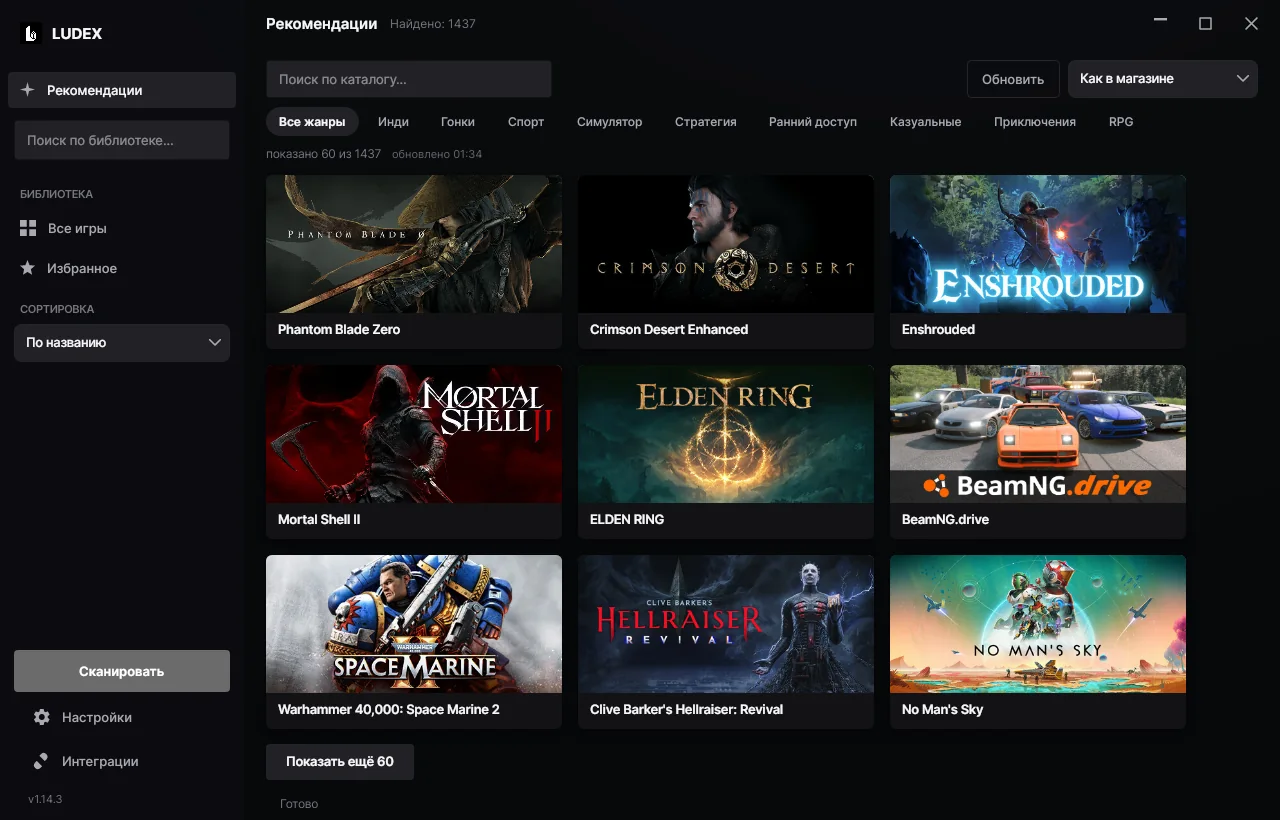
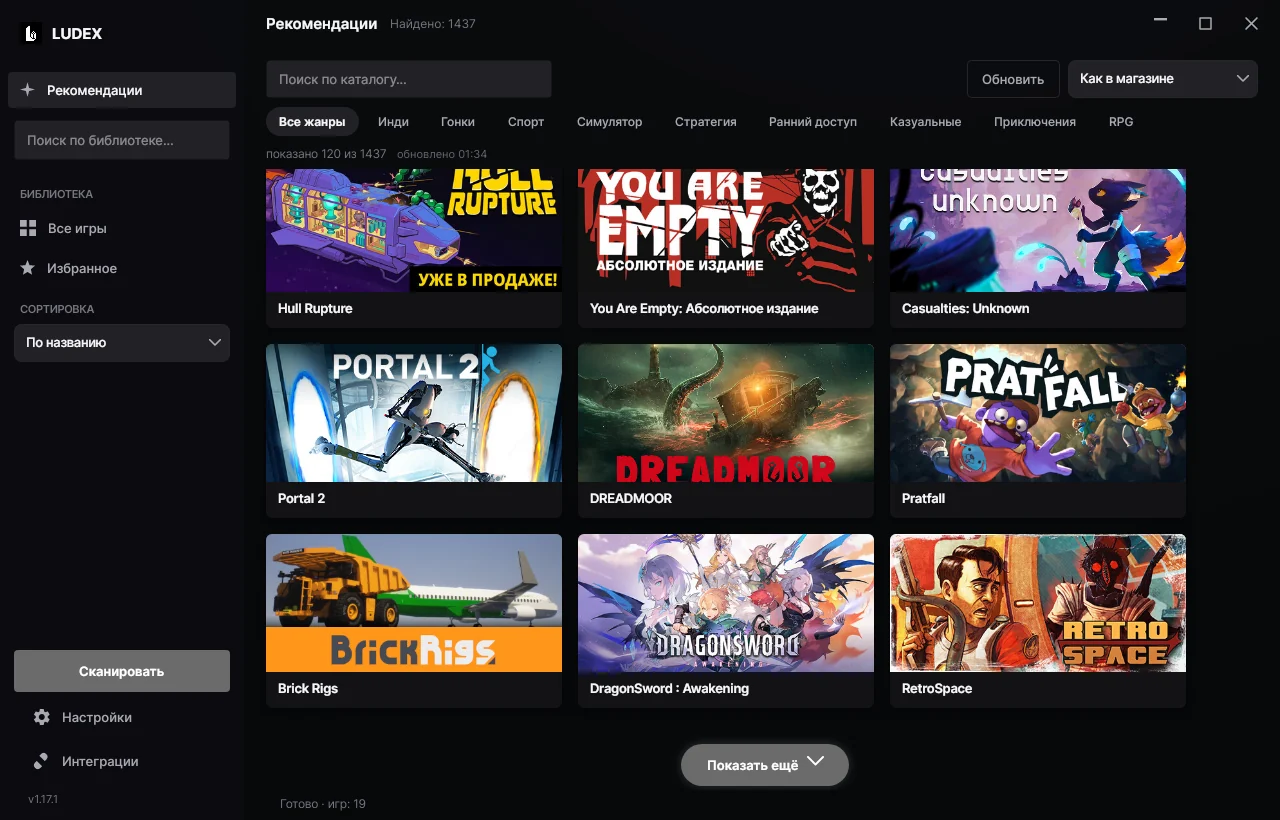
1.17.2: «Показать ещё» по центру в конце списка, без сообщения о поиске в браузере

diff --git a/site/index.html b/site/index.html
@@ -48,7 +48,7 @@
       <div class="hero-text">
         <div class="pill">
           <span class="dot"></span>
-          <span data-ru="Версия 1.17.1 · Windows, Linux, macOS · бесплатно" data-en="Version 1.17.1 · Windows, Linux, macOS · free">Версия 1.17.1 · Windows, Linux, macOS · бесплатно</span>
+          <span data-ru="Версия 1.17.2 · Windows, Linux, macOS · бесплатно" data-en="Version 1.17.2 · Windows, Linux, macOS · free">Версия 1.17.2 · Windows, Linux, macOS · бесплатно</span>
         </div>
 
         <h1>
@@ -243,7 +243,7 @@
 
       <div class="download-box">
         <div>
-          <h3 data-ru="Все файлы релиза 1.17.1" data-en="All 1.17.1 release files">Все файлы релиза 1.17.1</h3>
+          <h3 data-ru="Все файлы релиза 1.17.2" data-en="All 1.17.2 release files">Все файлы релиза 1.17.2</h3>
           <p class="muted" data-ru="Файлы не подписаны сертификатом: SmartScreen в Windows и Gatekeeper в macOS попросят подтвердить первый запуск."
              data-en="Files are not code-signed: SmartScreen on Windows and Gatekeeper on macOS will ask you to confirm the first launch.">Файлы не подписаны сертификатом: SmartScreen в Windows и Gatekeeper в macOS попросят подтвердить первый запуск.</p>
         </div>
@@ -304,7 +304,7 @@
     <div class="brand small-brand">
       <img src="/img/logo.png" alt="" width="22" height="22">
       <span>LUDEX</span>
-      <span class="muted">· 1.17.1</span>
+      <span class="muted">· 1.17.2</span>
     </div>
     <div class="footer-links">
       <a href="https://github.com/dosherrk/ludex" target="_blank" rel="noopener">GitHub</a>

diff --git a/site/api/go.js b/site/api/go.js
@@ -9,15 +9,15 @@ const KINDS = ['setup', 'win-zip', 'linux-tar', 'linux-deb', 'macos-arm', 'macos
 
 // Запасные имена файлов — на случай, если Redis ещё пуст.
 const FALLBACK = {
-  setup: 'Ludex-Setup-1.17.1.exe',
-  'win-zip': 'Ludex-1.17.1-windows.zip',
-  'linux-tar': 'Ludex-1.17.1-linux-x64.tar.gz',
-  'linux-deb': 'Ludex-1.17.1-linux-x64.deb',
-  'macos-arm': 'Ludex-1.17.1-macos-arm64.dmg',
-  'macos-x64': 'Ludex-1.17.1-macos-x64.dmg',
+  setup: 'Ludex-Setup-1.17.2.exe',
+  'win-zip': 'Ludex-1.17.2-windows.zip',
+  'linux-tar': 'Ludex-1.17.2-linux-x64.tar.gz',
+  'linux-deb': 'Ludex-1.17.2-linux-x64.deb',
+  'macos-arm': 'Ludex-1.17.2-macos-arm64.dmg',
+  'macos-x64': 'Ludex-1.17.2-macos-x64.dmg',
 };
 
-// Старые ссылки: «Архив» до 1.5.0 и кнопка «Портативный» до 1.17.1
+// Старые ссылки: «Архив» до 1.5.0 и кнопка «Портативный» до 1.17.2
 // (раньше это был один exe, теперь — архив с файлами рядом с Ludex.exe).
 const ALIASES = { zip: 'win-zip', portable: 'win-zip' };
 

diff --git a/site/app.js b/site/app.js
@@ -41,7 +41,7 @@
   function wordClicks(n) { return isEn() ? (n === 1 ? 'click' : 'clicks') : plural(n, ['клик', 'клика', 'кликов']); }
 
   // Имена файлов релиза → ключи кнопок.
-  // Ludex-Setup-1.17.1.exe → setup, Ludex-1.17.1-linux-x64.deb → linux-deb и т.д.
+  // Ludex-Setup-1.17.2.exe → setup, Ludex-1.17.2-linux-x64.deb → linux-deb и т.д.
   function classify(name) {
     var n = String(name || '').toLowerCase();
     if (n.indexOf('sources') !== -1) return null;

diff --git a/src/Ludex/UI/RecommendationsView.cs b/src/Ludex/UI/RecommendationsView.cs
@@ -52,7 +52,6 @@ public sealed class RecommendationsView : Grid
     private readonly Border _loading;
     private readonly Border _detail;
     private readonly Border _more;
-    private readonly TextBlock _moreLabel;
 
     private List<StoreGame> _games = new();
     private CancellationTokenSource? _cts;
@@ -67,7 +66,7 @@ public sealed class RecommendationsView : Grid
         _status = status;
         _count = count;
 
-        RowDefinitions = new RowDefinitions("Auto,*,Auto");
+        RowDefinitions = new RowDefinitions("Auto,*");
 
         // ---------------------------------------------------------------- панель фильтров
         var toolbar = new StackPanel { Spacing = 9, Margin = new Thickness(22, 12, 22, 8) };
@@ -119,9 +118,49 @@ public sealed class RecommendationsView : Grid
         Children.Add(toolbar);
 
         // ---------------------------------------------------------------- карточки
+        // кнопка «показать ещё» — в конце списка, под последней карточкой:
+        // её видно, только когда долистали до низа
+        var moreContent = new StackPanel
+        {
+            Orientation = Orientation.Horizontal,
+            Spacing = 9,
+            VerticalAlignment = VerticalAlignment.Center,
+            Children =
+            {
+                Ui.T(Loc.T("recs.more"), 13, Skin.OnAccent, FontWeight.SemiBold),
+                Ui.Icon("M1 4 L7 10 L13 4", Skin.OnAccent, 15, 15, stroke: true, thickness: 2.1),
+            },
+        };
+
+        _more = Ui.Clickable(moreContent, () =>
+        {
+            _shown += PageSize;
+            Refresh();
+        }, Skin.Accent, Skin.AccentHover, new CornerRadius(999), new Thickness(26, 13));
+
+        _more.HorizontalAlignment = HorizontalAlignment.Center;
+        _more.Margin = new Thickness(0, 18, 0, 24);
+        _more.BoxShadow = Ui.GlowShadow();
+        _more.IsVisible = false;
+        _more.Transitions = new Transitions
+        {
+            new BoxShadowsTransition
+            {
+                Property = Border.BoxShadowProperty,
+                Duration = TimeSpan.FromMilliseconds(200),
+            },
+        };
+        _more.PointerEntered += (_, _) => _more.BoxShadow = Ui.GlowShadow(strong: true);
+        _more.PointerExited += (_, _) => _more.BoxShadow = Ui.GlowShadow();
+
+        var cardsHost = new StackPanel
+        {
+            Children = { _cards, _more },
+        };
+
         var scroll = new ScrollViewer
         {
-            Content = _cards,
+            Content = cardsHost,
             Padding = new Thickness(20, 4, 14, 12),
             HorizontalScrollBarVisibility = ScrollBarVisibility.Disabled,
             VerticalScrollBarVisibility = ScrollBarVisibility.Auto,
@@ -157,25 +196,12 @@ public sealed class RecommendationsView : Grid
         Grid.SetRow(_loading, 1);
         Children.Add(_loading);
 
-        // ---------------------------------------------------------------- «показать ещё»
-        _moreLabel = Ui.T(Loc.T("recs.more"), 12.5, Skin.Text, FontWeight.SemiBold);
-        _more = Ui.Clickable(_moreLabel, () =>
-        {
-            _shown += PageSize;
-            Refresh();
-        }, Skin.PanelAlt, Skin.CardHover, new CornerRadius(4), new Thickness(20, 10));
-        _more.HorizontalAlignment = HorizontalAlignment.Left;
-        _more.Margin = new Thickness(22, 0, 0, 10);
-        _more.IsVisible = false;
-        Grid.SetRow(_more, 2);
-        Children.Add(_more);
-
         _detail = new Border { Background = Skin.Overlay, IsVisible = false };
         _detail.PointerPressed += (_, e) =>
         {
             if (ReferenceEquals(e.Source, _detail)) _detail.IsVisible = false;
         };
-        Grid.SetRowSpan(_detail, 3);
+        Grid.SetRowSpan(_detail, 2);
         Children.Add(_detail);
 
         KeyDown += (_, e) =>
@@ -381,8 +407,8 @@ public sealed class RecommendationsView : Grid
         _found.Text = Loc.F("catalog.showing", slice.Count, list.Count);
         _empty.Text = Loc.T("recs.empty");
         _emptyBox.IsVisible = !_loading.IsVisible && list.Count == 0;
+        // кнопка нужна только если в каталоге осталось что показать
         _more.IsVisible = list.Count > slice.Count;
-        _moreLabel.Text = Loc.F("recs.more", Math.Min(PageSize, list.Count - slice.Count));
         _count?.Invoke(list.Count);
 
         if (slice.Count > 0 && !_loading.IsVisible) Ui.FadeSlideIn(_cards, 0, 160, 6);
@@ -806,6 +832,5 @@ public sealed class RecommendationsView : Grid
         };
 
         Shell.OpenUrl(url);
-        _status?.Invoke(Loc.F("recs.opening", game.Name));
     }
 }

diff --git a/src/Ludex/Loc.cs b/src/Ludex/Loc.cs
@@ -99,7 +99,7 @@ public static class Loc
         ["recs.sectionFree"] = ("Бесплатные", "Free"),
         ["recs.sortStore"] = ("Как в магазине", "Store order"),
         ["recs.sortPopular"] = ("По популярности", "By popularity"),
-        ["recs.more"] = ("Показать ещё {0}", "Show {0} more"),
+        ["recs.more"] = ("Показать ещё", "Show more"),
         ["recs.devLine"] = ("{0} · издатель: {1}", "{0} · publisher: {1}"),
         ["recs.owners"] = ("владельцев: {0}", "owners: {0}"),
         ["recs.online"] = ("сейчас играют: {0}", "playing now: {0}"),

diff --git a/CHANGELOG.md b/CHANGELOG.md
@@ -3,6 +3,21 @@
 Все заметные изменения проекта. Формат — [Keep a Changelog](https://keepachangelog.com/ru/1.1.0/),
 версии — [SemVer](https://semver.org/lang/ru/).
 
+## [1.17.2] — 2026-11-08
+
+Порядок в «Рекомендациях».
+
+### Изменено
+- **Кнопка «Показать ещё».** Больше без счётчика — просто «Показать ещё». Стоит по центру,
+  в конце списка (её видно, когда долистали до последней карточки, а не висит над строкой
+  состояния), оформлена как акцентная кнопка-пилюля со шевроном и мягким свечением при
+  наведении.
+- **Убрано сообщение «Открываю поиск «…» в браузере…»** — оно оставалось в нижней строке
+  состояния после нажатия «Найти в браузере» и висело там до следующего действия.
+
+### Обновлено
+- Скриншот вкладки на сайте — с новой кнопкой.
+
 ## [1.17.1] — 2026-11-08
 
 Меньше файлов в поставке: обрезка неиспользуемого кода.
